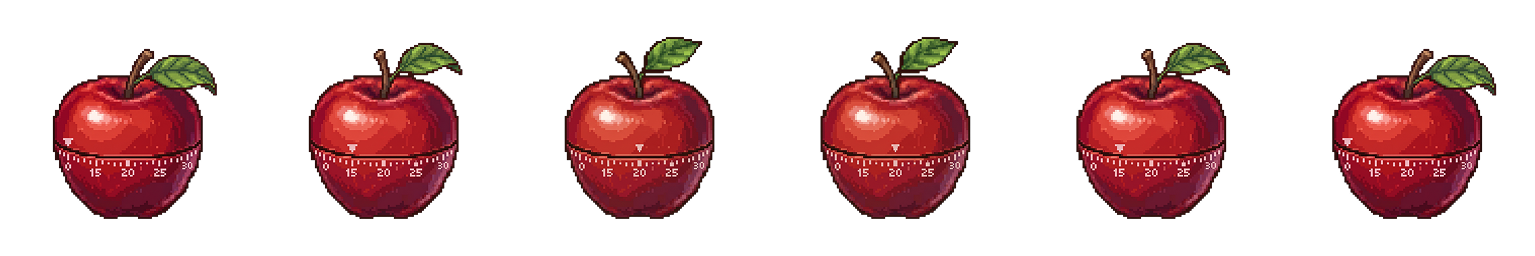
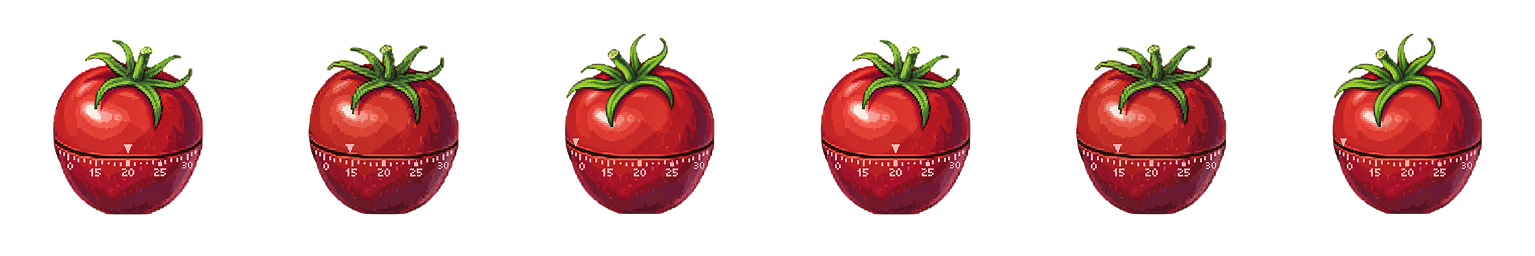
Publica correcoes de tema inicial, ajuda e versao validada

diff --git a/calendario.html b/calendario.html
@@ -3,8 +3,9 @@
 <head>
 <script type="application/grimorio" src="icones-pixel.js?v=controles-20261102"></script>
 <meta charset="UTF-8">
+<script src="tema-inicial.js?v=tema-inicial-20261102"></script>
 <script src="armazenamento-offline.js?v=excluir-extra-20261030"></script>
-<script src="iniciar-offline.js?v=offline-20261030"></script>
+<script src="iniciar-offline.js?v=tema-inicial-20261102"></script>
     <script type="application/grimorio" src="praticas-progressao.js?v=praticas-ui-20261029"></script><script type="application/grimorio" src="praticas-recomendacoes.js?v=praticas-e8-20261026"></script><script type="application/grimorio" src="atividades-praticas.js?v=praticas-tipos-20261029"></script><script type="application/grimorio" src="praticas-schema.js?v=praticas-e6-20261026"></script>
     <script type="application/grimorio" src="backup-local.js?v=fusao-xp-20261102"></script>
     <script type="application/grimorio" src="acessibilidade.js?v=sidebar-global-20261030"></script>
@@ -28,7 +29,7 @@
 
 <link rel="stylesheet" href="css/jornada-interface.css?v=acoes-cards-20261101">
 <script type="application/grimorio" src="sidebar.js?v=artes-20261101"></script>
-<link rel="stylesheet" href="css/quest-marcadores.css?v=quest-20261101"><script type="application/grimorio" src="quest-marcadores.js?v=quest-20261101"></script><link rel="stylesheet" href="css/icones-pixel.css?v=artes-cascata-20261102"><link rel="stylesheet" href="css/replanejamento.css?v=d061-20261101">
+<link rel="stylesheet" href="css/quest-marcadores.css?v=quest-20261101"><script type="application/grimorio" src="quest-marcadores.js?v=quest-20261101"></script><link rel="stylesheet" href="css/icones-pixel.css?v=ajuda-separada-20261102"><link rel="stylesheet" href="css/replanejamento.css?v=d061-20261101">
 </head>
 <body class="calendario-page">
 <div class="jornada-shell"><aside class="jornada-menu" aria-label="Menu do Grimório"><details id="jornada-menu-aberto"><summary>Menu do Grimório</summary><nav aria-label="Navegação principal"><p class="jornada-menu-titulo">Seu Grimório</p><a href="home.html">Meus projetos</a><a href="perfil.html">Perfil</a><a href="materias.html">Suas matérias e vínculos</a><a data-menu-projeto href="agenda.html">Jornada</a><a id="atalho-praticas" data-menu-projeto href="agenda.html?praticas=1">Atividades práticas</a><a data-menu-projeto href="pesomateria.html">Ver planejamento</a><a data-menu-projeto href="calendario.html">Calendário</a><a data-menu-projeto href="index.html?editar=1">Editar projeto</a><button type="button" id="abrir-historico" aria-haspopup="dialog" aria-controls="historico-dialog">Histórico de estudos</button><details id="jornada-temas"><summary>Temas</summary><div id="jornada-temas-opcoes"></div></details></nav></details></aside><div class="jornada-pagina">

diff --git a/pesomateria.html b/pesomateria.html
@@ -3,8 +3,9 @@
 <head>
 <script type="application/grimorio" src="icones-pixel.js?v=controles-20261102"></script>
 <meta charset="UTF-8">
+<script src="tema-inicial.js?v=tema-inicial-20261102"></script>
 <script src="armazenamento-offline.js?v=excluir-extra-20261030"></script>
-<script src="iniciar-offline.js?v=offline-20261030"></script>
+<script src="iniciar-offline.js?v=tema-inicial-20261102"></script>
     <script type="application/grimorio" src="praticas-progressao.js?v=praticas-ui-20261029"></script><script type="application/grimorio" src="praticas-recomendacoes.js?v=praticas-e8-20261026"></script><script type="application/grimorio" src="atividades-praticas.js?v=praticas-tipos-20261029"></script><script type="application/grimorio" src="praticas-schema.js?v=praticas-e6-20261026"></script>
     <script type="application/grimorio" src="backup-local.js?v=fusao-xp-20261102"></script>
     <script type="application/grimorio" src="acessibilidade.js?v=sidebar-global-20261030"></script>
@@ -19,7 +20,7 @@
     <title>Planejamento de estudos</title>
 <link rel="stylesheet" href="css/acessibilidade.css?v=temas3-20261022"><link rel="stylesheet" href="css/jornada-interface.css?v=acoes-cards-20261101">
 <script type="application/grimorio" src="sidebar.js?v=artes-20261101"></script>
-<link rel="stylesheet" href="css/icones-pixel.css?v=artes-cascata-20261102"></head>
+<link rel="stylesheet" href="css/icones-pixel.css?v=ajuda-separada-20261102"></head>
 <body class="bg-light planejamento-page">
 <div class="jornada-shell"><aside class="jornada-menu" aria-label="Menu do Grimório"><details id="jornada-menu-aberto"><summary>Menu do Grimório</summary><nav aria-label="Navegação principal"><p class="jornada-menu-titulo">Seu Grimório</p><a href="home.html">Meus projetos</a><a href="perfil.html">Perfil</a><a href="materias.html">Suas matérias e vínculos</a><button type="button" id="abrir-historico" aria-haspopup="dialog" aria-controls="historico-dialog">Histórico de estudos</button><details id="jornada-temas"><summary>Temas</summary><div id="jornada-temas-opcoes"></div></details></nav></details></aside><div class="jornada-pagina">
     <header class="container py-4">

diff --git a/home.html b/home.html
@@ -3,8 +3,9 @@
 <head>
 <script type="application/grimorio" src="icones-pixel.js?v=controles-20261102"></script>
 <meta charset="UTF-8">
+<script src="tema-inicial.js?v=tema-inicial-20261102"></script>
 <script src="armazenamento-offline.js?v=excluir-extra-20261030"></script>
-<script src="iniciar-offline.js?v=offline-20261030"></script>
+<script src="iniciar-offline.js?v=tema-inicial-20261102"></script>
     <script type="application/grimorio" src="praticas-progressao.js?v=praticas-ui-20261029"></script><script type="application/grimorio" src="praticas-recomendacoes.js?v=praticas-e8-20261026"></script><script type="application/grimorio" src="atividades-praticas.js?v=praticas-tipos-20261029"></script><script type="application/grimorio" src="praticas-schema.js?v=praticas-e6-20261026"></script>
     <script type="application/grimorio" src="backup-local.js?v=fusao-xp-20261102"></script>
     <script type="application/grimorio" src="acessibilidade.js?v=sidebar-global-20261030"></script>
@@ -20,7 +21,7 @@
     <script type="application/grimorio" src="home.js?v=offline-20261030" defer></script>
 <link rel="stylesheet" href="css/acessibilidade.css?v=temas3-20261022"><link rel="stylesheet" href="css/jornada-interface.css?v=acoes-cards-20261101">
 <script type="application/grimorio" src="sidebar.js?v=artes-20261101"></script>
-<link rel="stylesheet" href="css/icones-pixel.css?v=artes-cascata-20261102"></head>
+<link rel="stylesheet" href="css/icones-pixel.css?v=ajuda-separada-20261102"></head>
 <body>
 <div class="jornada-shell"><aside class="jornada-menu" aria-label="Menu do Grimório"><details id="jornada-menu-aberto"><summary>Menu do Grimório</summary><nav aria-label="Navegação principal"><p class="jornada-menu-titulo">Seu Grimório</p><a href="home.html">Meus projetos</a><a href="perfil.html">Perfil</a><a href="materias.html">Suas matérias e vínculos</a><button type="button" id="abrir-historico" aria-haspopup="dialog" aria-controls="historico-dialog">Histórico de estudos</button><details id="jornada-temas"><summary>Temas</summary><div id="jornada-temas-opcoes"></div></details></nav></details></aside><div class="jornada-pagina">
     <main>

diff --git a/materias.html b/materias.html
@@ -3,8 +3,9 @@
 <head>
 <script type="application/grimorio" src="icones-pixel.js?v=controles-20261102"></script>
 <meta charset="UTF-8">
+<script src="tema-inicial.js?v=tema-inicial-20261102"></script>
 <script src="armazenamento-offline.js?v=excluir-extra-20261030"></script>
-<script src="iniciar-offline.js?v=offline-20261030"></script>
+<script src="iniciar-offline.js?v=tema-inicial-20261102"></script>
     <script type="application/grimorio" src="praticas-progressao.js?v=praticas-ui-20261029"></script><script type="application/grimorio" src="praticas-recomendacoes.js?v=praticas-e8-20261026"></script><script type="application/grimorio" src="atividades-praticas.js?v=praticas-tipos-20261029"></script><script type="application/grimorio" src="praticas-schema.js?v=praticas-e6-20261026"></script>
     <script type="application/grimorio" src="backup-local.js?v=fusao-xp-20261102"></script>
     <meta name="viewport" content="width=device-width, initial-scale=1">
@@ -28,7 +29,7 @@
 <link rel="stylesheet" href="css/jornada-interface.css?v=acoes-cards-20261101">
 <script type="application/grimorio" src="sidebar.js?v=artes-20261101"></script>
 <link rel="stylesheet" href="css/materias.css?v=fusao-xp-20261102">
-<link rel="stylesheet" href="css/icones-pixel.css?v=artes-cascata-20261102"></head>
+<link rel="stylesheet" href="css/icones-pixel.css?v=ajuda-separada-20261102"></head>
 <body class="perfil-page materias-page">
 <div class="jornada-shell"><aside class="jornada-menu" aria-label="Menu do Grimório"><details id="jornada-menu-aberto"><summary>Menu do Grimório</summary><nav aria-label="Navegação principal"><p class="jornada-menu-titulo">Seu Grimório</p><a href="home.html">Meus projetos</a><a href="perfil.html">Perfil</a><a href="materias.html">Suas matérias e vínculos</a><button type="button" id="abrir-historico" aria-haspopup="dialog" aria-controls="historico-dialog">Histórico de estudos</button><details id="jornada-temas"><summary>Temas</summary><div id="jornada-temas-opcoes"></div></details></nav></details></aside><div class="jornada-pagina">
     <header class="container">

diff --git a/perfil.html b/perfil.html
@@ -3,8 +3,9 @@
 <head>
 <script type="application/grimorio" src="icones-pixel.js?v=controles-20261102"></script>
 <meta charset="UTF-8">
+<script src="tema-inicial.js?v=tema-inicial-20261102"></script>
 <script src="armazenamento-offline.js?v=excluir-extra-20261030"></script>
-<script src="iniciar-offline.js?v=offline-20261030"></script>
+<script src="iniciar-offline.js?v=tema-inicial-20261102"></script>
     <script type="application/grimorio" src="praticas-progressao.js?v=praticas-ui-20261029"></script><script type="application/grimorio" src="praticas-recomendacoes.js?v=praticas-e8-20261026"></script><script type="application/grimorio" src="atividades-praticas.js?v=praticas-tipos-20261029"></script><script type="application/grimorio" src="praticas-schema.js?v=praticas-e6-20261026"></script>
     <script type="application/grimorio" src="backup-local.js?v=fusao-xp-20261102"></script>
     <script type="application/grimorio" src="acessibilidade.js?v=sidebar-global-20261030"></script>
@@ -29,7 +30,7 @@
 
 <link rel="stylesheet" href="css/jornada-interface.css?v=acoes-cards-20261101">
 <script type="application/grimorio" src="sidebar.js?v=artes-20261101"></script>
-<link rel="stylesheet" href="css/icones-pixel.css?v=artes-cascata-20261102"></head>
+<link rel="stylesheet" href="css/icones-pixel.css?v=ajuda-separada-20261102"></head>
 <body class="perfil-page">
 <div class="jornada-shell"><aside class="jornada-menu" aria-label="Menu do Grimório"><details id="jornada-menu-aberto"><summary>Menu do Grimório</summary><nav aria-label="Navegação principal"><p class="jornada-menu-titulo">Seu Grimório</p><a href="home.html">Meus projetos</a><a href="perfil.html">Perfil</a><a href="materias.html">Suas matérias e vínculos</a><button type="button" id="abrir-historico" aria-haspopup="dialog" aria-controls="historico-dialog">Histórico de estudos</button><details id="jornada-temas"><summary>Temas</summary><div id="jornada-temas-opcoes"></div></details></nav></details></aside><div class="jornada-pagina">
     <header class="container">

diff --git a/agenda.html b/agenda.html
@@ -3,8 +3,9 @@
 <head>
 <script type="application/grimorio" src="icones-pixel.js?v=controles-20261102"></script>
 <meta charset="UTF-8">
+<script src="tema-inicial.js?v=tema-inicial-20261102"></script>
 <script src="armazenamento-offline.js?v=excluir-extra-20261030"></script>
-<script src="iniciar-offline.js?v=offline-20261030"></script>
+<script src="iniciar-offline.js?v=tema-inicial-20261102"></script>
     <script type="application/grimorio" src="praticas-progressao.js?v=praticas-ui-20261029"></script><script type="application/grimorio" src="praticas-recomendacoes.js?v=praticas-e8-20261026"></script><script type="application/grimorio" src="atividades-praticas.js?v=praticas-tipos-20261029"></script><script type="application/grimorio" src="praticas-schema.js?v=praticas-e6-20261026"></script>
     <script type="application/grimorio" src="backup-local.js?v=fusao-xp-20261102"></script>
     <script type="application/grimorio" src="acessibilidade.js?v=sidebar-global-20261030"></script>
@@ -25,7 +26,7 @@
 <link rel="stylesheet" href="css/jornada-interface.css?v=acoes-cards-20261101">
 <link rel="stylesheet" href="css/pomodoro.css?v=resumo-20261101">
 <script type="application/grimorio" src="sidebar.js?v=artes-20261101"></script>
-<link rel="stylesheet" href="css/quest-marcadores.css?v=quest-20261101"><script type="application/grimorio" src="quest-marcadores.js?v=quest-20261101"></script><link rel="stylesheet" href="css/icones-pixel.css?v=artes-cascata-20261102"><link rel="stylesheet" href="css/replanejamento.css?v=d061-20261101">
+<link rel="stylesheet" href="css/quest-marcadores.css?v=quest-20261101"><script type="application/grimorio" src="quest-marcadores.js?v=quest-20261101"></script><link rel="stylesheet" href="css/icones-pixel.css?v=ajuda-separada-20261102"><link rel="stylesheet" href="css/replanejamento.css?v=d061-20261101">
 </head>
 <body class="jornada-page">
 <div class="jornada-shell">

diff --git a/index.html b/index.html
@@ -3,8 +3,9 @@
 <head>
 <script type="application/grimorio" src="icones-pixel.js?v=controles-20261102"></script>
 <meta charset="UTF-8">
+<script src="tema-inicial.js?v=tema-inicial-20261102"></script>
 <script src="armazenamento-offline.js?v=excluir-extra-20261030"></script>
-<script src="iniciar-offline.js?v=offline-20261030"></script>
+<script src="iniciar-offline.js?v=tema-inicial-20261102"></script>
     <script type="application/grimorio" src="praticas-progressao.js?v=praticas-ui-20261029"></script><script type="application/grimorio" src="praticas-recomendacoes.js?v=praticas-e8-20261026"></script><script type="application/grimorio" src="atividades-praticas.js?v=praticas-tipos-20261029"></script><script type="application/grimorio" src="praticas-schema.js?v=praticas-e6-20261026"></script>
     <script type="application/grimorio" src="backup-local.js?v=fusao-xp-20261102"></script>
     <script type="application/grimorio" src="acessibilidade.js?v=sidebar-global-20261030"></script>
@@ -28,7 +29,7 @@
 
 <link rel="stylesheet" href="css/acessibilidade.css?v=temas3-20261022"><link rel="stylesheet" href="css/jornada-interface.css?v=acoes-cards-20261101">
 <script type="application/grimorio" src="sidebar.js?v=artes-20261101"></script>
-<link rel="stylesheet" href="css/icones-pixel.css?v=artes-cascata-20261102"><link rel="stylesheet" href="css/replanejamento.css?v=d061-20261101">
+<link rel="stylesheet" href="css/icones-pixel.css?v=ajuda-separada-20261102"><link rel="stylesheet" href="css/replanejamento.css?v=d061-20261101">
 </head>
 
 <body class="criacao-page">

diff --git a/css/icones-pixel.css b/css/icones-pixel.css
@@ -52,3 +52,6 @@ html body button.materia-excluir-icone.materia-excluir-icone.materia-excluir-ico
 html body button.materia-excluir-icone.materia-excluir-icone.materia-excluir-icone.materia-excluir-icone.materia-excluir-icone::before,
 html body button.materia-excluir-icone.materia-excluir-icone.materia-excluir-icone.materia-excluir-icone.materia-excluir-icone::after { display: none !important; }
 @media(prefers-reduced-motion:reduce) { html body button.pixel-fechar.pixel-fechar.pixel-fechar.pixel-fechar.pixel-fechar { transition: none; } }
+
+/* O fechamento absoluto não ocupa espaço no cabeçalho: reserve sua linha. */
+#praticas-painel-dialog:has(.pixel-fechar) { padding-top: 74px; }

diff --git a/iniciar-offline.js b/iniciar-offline.js
@@ -4,7 +4,7 @@
 window.GrimorioPronto=false;
 const iniciar=async()=>{
  const protecao=document.createElement('div');protecao.id='grimorio-carregando';protecao.setAttribute('role','status');protecao.textContent='Carregando seus projetos…';
- Object.assign(protecao.style,{position:'fixed',inset:'0',zIndex:'99999',background:'#fff8e8',color:'#302414',padding:'2rem'});document.body.append(protecao);
+ Object.assign(protecao.style,{position:'fixed',inset:'0',zIndex:'99999',background:'var(--pixel-surface)',color:'var(--texto-comum, var(--pixel-ink))',padding:'2rem'});document.body.append(protecao);
  document.body.inert=true;
  try{
   await window.ProjetosOffline.pronta;

diff --git a/tema-inicial.js b/tema-inicial.js
@@ -1,0 +1,10 @@
+/* Aplica apenas a preferência visual antes dos estilos. Não grava dados nem
+   inicializa stores; o bootstrap offline continua protegendo o acervo. */
+(function () {
+    'use strict';
+    let tema = 'taverna';
+    try { tema = localStorage.getItem('grimorioTemaPixelV1') || tema; } catch (_) {}
+    if (tema === 'reliquia') tema = 'floresta';
+    if (!['taverna', 'arcano', 'floresta'].includes(tema)) tema = 'taverna';
+    document.documentElement.dataset.temaPixel = tema;
+})();
